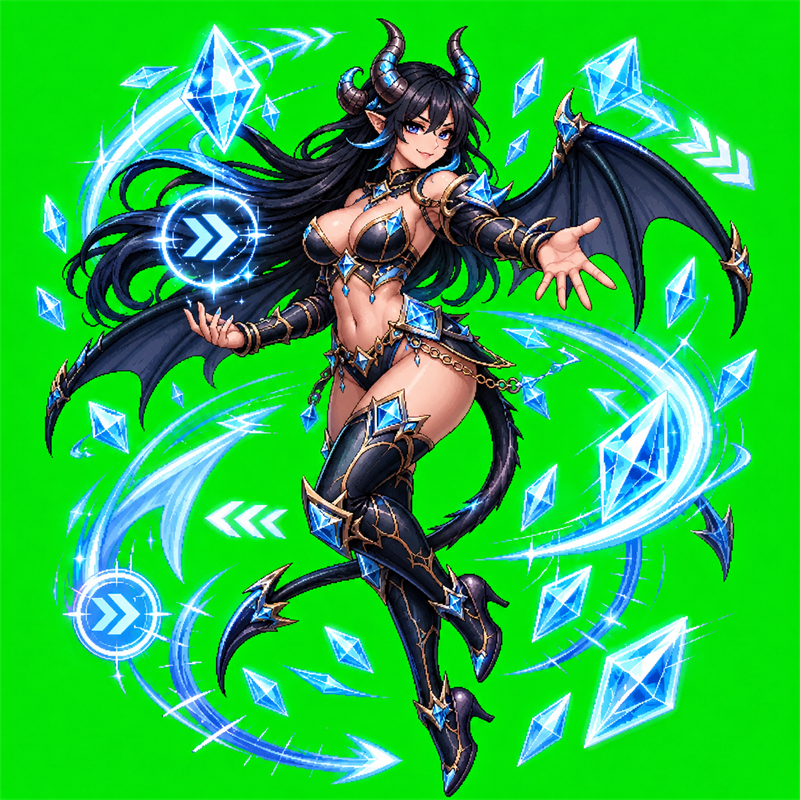
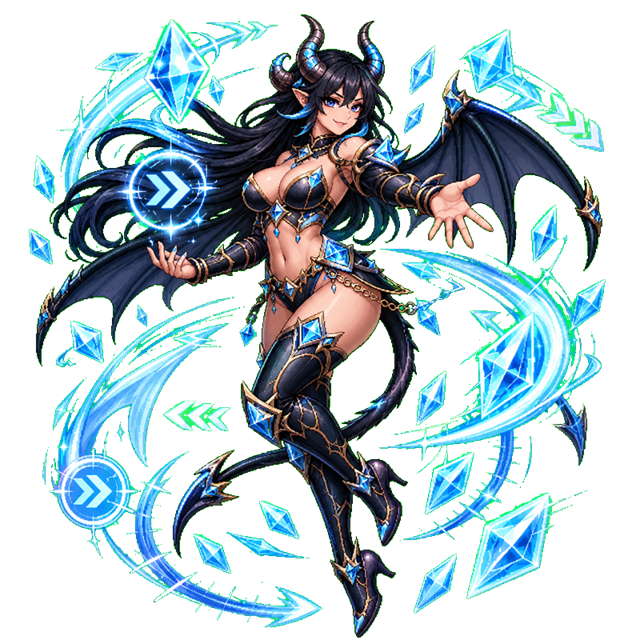
fix: key out speedup succubus art

diff --git a/src/game/assets/manifest.js b/src/game/assets/manifest.js
@@ -107,7 +107,7 @@ export const MANIFEST = {
     key:    'wb_speedup_succubus',
     path:   '/assets/scenes/wb/wb_speedup_succubus.png',
     status: 'loaded',
-    note:   'Zone 1 — speedup waifu / succubus encounter art, 800×800, grounded on the intro floor',
+    note:   'Zone 1 — speedup waifu / succubus encounter art, 640×640 transparent cutout, grounded on the intro floor',
   },
   wb_bg_steppe: {
     id:     'wb_bg_steppe',

diff --git a/docs/project-memory.md b/docs/project-memory.md
@@ -35,7 +35,7 @@ Create a portal-first browser app that exposes Gameron as a subpage, teaches gam
 
 ### Latest delivered changes
 
-- The speedup waifu is now a real scene asset: `wb_speedup_succubus.png` was imported from Downloads, resized to `800x800`, added to the manifest, and placed in `WorldBuildingScene` as a floor-anchored image so it no longer falls through the ground
+- The speedup waifu is now a real scene asset: `wb_speedup_succubus.png` was imported from Downloads, keyed out to transparent green-screen cutout, resized to `640x640`, added to the manifest, and placed in `WorldBuildingScene` as a floor-anchored image so it no longer falls through the ground
 - Scene 1 camera framing is tightened with a 1.08 zoom, round-pixel rendering, and a deadzone so the intro reads more grounded in-browser; the rain emitter now follows camera Y as well as X
 - Workbench scrolling is restored, the edit-map export now keeps the stamped cutout as the background, the default orchestrator URL now uses the public HTTPS route, and `App` now preserves the resolved route on first load so `/workbench` and the Vision subpage no longer flicker through the portal first
 - `gm_main_male_run.png` is now wired into the hero state machine as the new `run` animation, with chroma-key green removed at preload and the sprite display forced to a stable 128×128 size so the old sheet can stay in place for the other animations while they are phased out

diff --git a/docs/milestones/2026-06-10_022448_speedup-succubus-asset.md b/docs/milestones/2026-06-10_022448_speedup-succubus-asset.md
@@ -4,7 +4,7 @@
 The intro scene still used a drawn blue placeholder for the speedup waifu. The user provided a finished PNG in Downloads, and the character was still visually sinking into the floor when placed naively.
 
 ## Decision
-Import the image as a new scene asset named `wb_speedup_succubus.png`, compress it down to a smaller square version, and replace the placeholder drawing in `WorldBuildingScene` with the real image anchored to the floor line.
+Import the image as a new scene asset named `wb_speedup_succubus.png`, cut out the green background, shrink it to a smaller square version, and replace the placeholder drawing in `WorldBuildingScene` with the real image anchored to the floor line.
 
 ## Rationale
 - The new art should be the actual scene object, not just a local download.
@@ -17,7 +17,7 @@ Import the image as a new scene asset named `wb_speedup_succubus.png`, compress 
 
 ## Implementation Notes
 - Copied `D:\Downloads\ChatGPT Image Jun 10, 2026, 02_16_27 AM.png` into `public/assets/scenes/wb/wb_speedup_succubus.png`.
-- Resized the image to `800x800` for a smaller repo asset.
+- Keyed out the green background and resized the image to `640x640` for a smaller repo asset.
 - Added `wb_speedup_succubus` to the manifest so `PreloadScene` loads it automatically.
 - Replaced the placeholder graphics in `WorldBuildingScene` with the PNG, using bottom origin and floor-aligned positioning.
 
